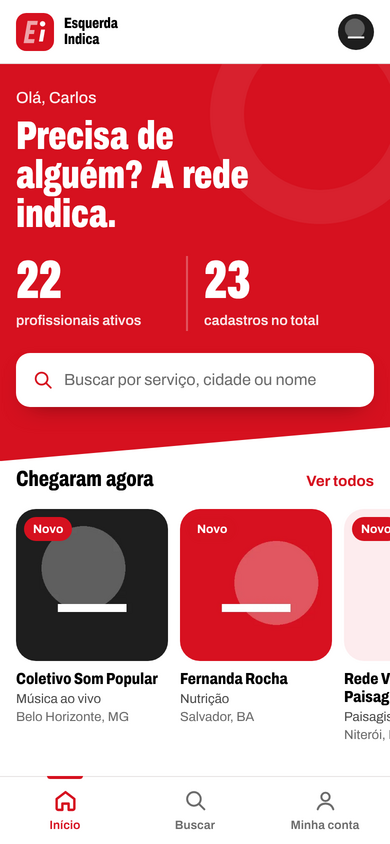
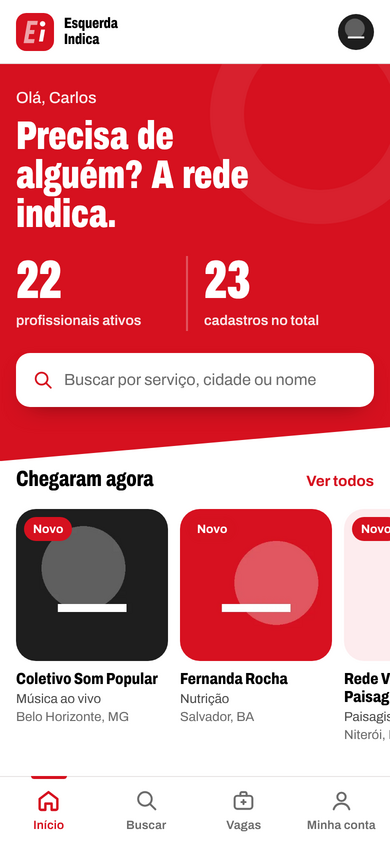
Documentação da versão 0.4.0

diff --git a/bin/dados-exemplo.php b/bin/dados-exemplo.php
@@ -73,4 +73,46 @@ foreach ($outros as $k => [$txt, $cid, $uf]) {
 }
 q("UPDATE usuarios SET status='bloqueado', bloqueio_motivo='Perfil duplicado' WHERE email='teste14@exemplo.com'");
 q("INSERT INTO solicitacoes (usuario_id, motivo) SELECT id, 'Troquei de número de WhatsApp e preciso atualizar meu Instagram, que mudou de nome.' FROM usuarios WHERE email='teste0@exemplo.com'");
+// Empresas com CNPJ e vagas de exemplo
+function cnpj_exemplo(int $base): string
+{
+    $c = str_pad((string)$base, 8, '0', STR_PAD_LEFT) . '0001';
+    foreach ([12, 13] as $n) {
+        $pesos = $n === 12 ? [5, 4, 3, 2, 9, 8, 7, 6, 5, 4, 3, 2] : [6, 5, 4, 3, 2, 9, 8, 7, 6, 5, 4, 3, 2];
+        $soma = 0;
+        for ($i = 0; $i < $n; $i++) $soma += (int)$c[$i] * $pesos[$i];
+        $r = $soma % 11;
+        $c .= $r < 2 ? 0 : 11 - $r;
+    }
+    return $c;
+}
+$empresas = [
+    'Lucas Ferreira Contabilidade' => ['Ferreira Serviços Contábeis Ltda', [
+        ['Assistente contábil', 'clt', 'presencial', 'faixa', 2200, 2800, 'Lançamentos contábeis, conciliação bancária e apoio no fechamento mensal de pequenas empresas e associações. Segunda a sexta, das 8h às 17h.', 'Curso técnico ou superior em andamento em Contabilidade. Conhecimento em planilhas.', 'Vale-transporte, vale-alimentação e plano de saúde.', 'email'],
+        ['Estágio em departamento pessoal', 'estagio', 'hibrido', 'valor', 1100, null, 'Apoio na folha de pagamento, admissões e rescisões. Três dias no escritório e dois em casa, 6 horas por dia.', 'Cursando Administração, Contabilidade ou Recursos Humanos.', 'Bolsa-auxílio e vale-transporte.', 'whatsapp'],
+    ]],
+    'Doce Resistência' => ['Doce Resistência Confeitaria ME', [
+        ['Auxiliar de confeitaria', 'clt', 'presencial', 'valor', 1800, null, 'Preparo de massas, recheios e montagem de bolos e doces para encomendas. Escala de terça a sábado.', 'Experiência com confeitaria é um diferencial. Vontade de aprender é o principal.', 'Alimentação no local e vale-transporte.', 'whatsapp'],
+    ]],
+    'Pedro Antunes' => ['Pedro Antunes Desenvolvimento de Software Ltda', [
+        ['Desenvolvedor PHP pleno', 'pj', 'remoto', 'faixa', 5000, 7500, 'Manutenção e evolução de sistemas web para pequenos negócios e coletivos. Projetos em PHP, MySQL e JavaScript sem framework pesado.', 'Pelo menos 2 anos com PHP e MySQL. Git no dia a dia.', null, 'link'],
+    ]],
+    'Bike Livre Oficina' => ['Bike Livre Oficina Comunitária Ltda', [
+        ['Mecânico de bicicletas', 'temporario', 'presencial', 'combinar', null, null, 'Contrato de 3 meses para a temporada de verão. Revisões, troca de peças e montagem de bicicletas.', 'Experiência com manutenção de bicicletas.', null, 'whatsapp'],
+    ]],
+    'Ateliê Raízes' => ['Ateliê Raízes Moda Sustentável Ltda', []],
+];
+$i = 0;
+foreach ($empresas as $nome => [$razao, $vagas]) {
+    $u = one('SELECT * FROM usuarios WHERE empresa = ?', [$nome]);
+    if (!$u) continue;
+    q('UPDATE usuarios SET cnpj = ?, razao_social = ? WHERE id = ?', [cnpj_exemplo(31415900 + $i++), $razao, $u['id']]);
+    foreach ($vagas as $h => [$tit, $ct, $mod, $st, $min, $max, $desc, $req, $ben, $ctt]) {
+        $valor = $ctt === 'email' ? $u['email'] : ($ctt === 'link' ? 'https://exemplo.com/vagas' : ($u['whatsapp'] ?: $u['telefone']));
+        q("INSERT INTO vagas (usuario_id, titulo, contrato, modalidade, estado_id, cidade_id, quantidade, salario_tipo, salario_min, salario_max, descricao, requisitos, beneficios, contato_tipo, contato_valor, publicada_em, expira_em)
+           VALUES (?,?,?,?,?,?,?,?,?,?,?,?,?,?,?, NOW() - INTERVAL ? HOUR, NOW() + INTERVAL 25 DAY)",
+           [$u['id'], $tit, $ct, $mod, $u['estado_id'], $u['cidade_id'], $h === 0 && $ct === 'clt' ? 2 : 1, $st, $min, $max, $desc, $req, $ben, $ctt, $valor, 5 + $i * 7 + $h]);
+    }
+}
+
 echo "Perfis de exemplo criados. Senha de todos: senha1234\n";

diff --git a/README.md b/README.md
@@ -7,7 +7,7 @@ O app funciona no navegador, mas foi pensado para o celular: dá para instalar n
 <p>
   <img src="docs/telas/03-inicio.png" width="230" alt="Tela inicial">
   <img src="docs/telas/04-busca.png" width="230" alt="Busca por cidade">
-  <img src="docs/telas/05-perfil.png" width="230" alt="Perfil de um profissional">
+  <img src="docs/telas/10-vagas.png" width="230" alt="Vagas de emprego">
 </p>
 
 ## Por que existe
@@ -25,7 +25,8 @@ O Esquerda Indica organiza isso. Cada pessoa cadastra o próprio trabalho uma ve
 - Área de atendimento: só a cidade, a cidade e vizinhas, o estado inteiro ou o Brasil todo, além de atendimento online.
 - Aceite da política de privacidade (LGPD) registrado com data.
 - Login por e-mail e senha, recuperação por e-mail e troca de senha.
-- Cada pessoa pode editar o perfil duas vezes. Depois disso, pede uma nova alteração à administração explicando o motivo. Salvar sem mudar nada não conta.
+- Edição do perfil uma vez a cada 24 horas. Quem precisa mudar antes pode pedir liberação à administração. A administração também pode trocar para a regra de quantidade fixa de alterações. Salvar sem mudar nada não conta.
+- CNPJ e razão social opcionais, numa área própria que não gasta alterações. O CNPJ é conferido e aceita o novo formato com letras.
 - Exclusão da conta pela própria pessoa, com confirmação por senha.
 
 **Busca (só para membros cadastrados)**
@@ -34,9 +35,22 @@ O Esquerda Indica organiza isso. Cada pessoa cadastra o próprio trabalho uma ve
 - Considera a área de atendimento: quem atende a região aparece numa seção separada, depois de quem é da cidade.
 - Perfil com atalhos para WhatsApp (com mensagem pronta), ligação, Instagram, compartilhar e salvar na agenda do celular.
 
+**Vagas de emprego**
+- Empresas com CNPJ e razão social anunciam até 3 vagas ativas ao mesmo tempo. O app mostra com clareza o que falta preencher e quanto do limite está em uso.
+- Cada vaga tem cargo, contratação, modalidade, local, salário, descrição, requisitos, benefícios e forma de candidatura (WhatsApp, e-mail ou link).
+- A candidatura é direto com a empresa. O app não recebe nem guarda currículos.
+- Vagas ficam no ar por 30 dias e podem ser pausadas, renovadas e encerradas.
+- Aba Vagas com busca por texto, estado, cidade, contratação e modalidade.
+
+<p>
+  <img src="docs/telas/11-vaga.png" width="230" alt="Página de uma vaga">
+  <img src="docs/telas/12-minhas-vagas.png" width="230" alt="Minhas vagas">
+  <img src="docs/telas/14-conta-empresa.png" width="230" alt="O que falta para anunciar vagas">
+</p>
+
 **Tela inicial**
 - Contadores de profissionais ativos e de cadastros no total.
-- Destaque para quem acabou de entrar, serviços mais presentes na rede e profissionais da sua cidade.
+- Destaque para quem acabou de entrar, vagas abertas, serviços mais presentes na rede e profissionais da sua cidade.
 
 **Administração**
 - Painel com os números da rede.
@@ -44,11 +58,14 @@ O Esquerda Indica organiza isso. Cada pessoa cadastra o próprio trabalho uma ve
 - Fila de pedidos de alteração, com aprovação ou recusa e resposta que a pessoa vê na conta dela.
 - Histórico de tudo o que acontece: cada edição mostra o antes e o depois. Contas excluídas continuam no histórico com os dados, a foto e os pedidos feitos.
 - Gestão dos tipos de serviço, incluindo transformar um "Outro" que se repete em tipo oficial e mover os perfis automaticamente.
+- Vagas: liberar, bloquear ou mudar o limite de cada empresa, pausar ou remover anúncios com motivo.
+- Planos com preço e limite de vagas, atribuídos manualmente enquanto a cobrança não está ligada.
+- Configurações gerais: regra de edição do perfil, vagas ligadas ou desligadas, limite padrão e validade das vagas.
 
 <p>
   <img src="docs/telas/07-admin-painel.png" width="230" alt="Painel da administração">
   <img src="docs/telas/08-admin-usuario.png" width="230" alt="Gestão de um usuário">
-  <img src="docs/telas/09-admin-pedidos.png" width="230" alt="Pedidos de alteração">
+  <img src="docs/telas/16-admin-vagas.png" width="230" alt="Vagas na administração">
 </p>
 
 ## Tecnologias
@@ -95,19 +112,32 @@ Para atualizar, `git pull` e o mesmo comando de novo. Banco, configuração e fo
 
 O passo a passo manual, a configuração do Nginx e do Apache e os ajustes mais comuns estão em [docs/instalacao.md](docs/instalacao.md).
 
+## Planos e limites de vagas
+
+O limite de vagas de cada empresa é decidido em um só lugar (`direito_vagas()` em `app/lib/regras.php`), nesta ordem:
+
+1. limite próprio definido pela administração na ficha da conta;
+2. plano ativo da conta (tabela `assinaturas`);
+3. limite padrão do site, nas configurações.
+
+As tabelas `planos`, `assinaturas` e `pagamentos` já existem. Para começar a cobrar, falta integrar um meio de pagamento que crie a assinatura quando o pagamento for confirmado. O resto do app já respeita o plano.
+
 ## Organização do código
 
 ```
 app/
   pages/       uma página por rota (lógica e validação)
   views/       telas em PHP com HTML
-  lib/         banco, autenticação, perfil, fotos, e-mail e funções gerais
+  lib/         banco, autenticação, perfil, regras (edição, CNPJ, vagas, planos),
+               fotos, e-mail, migrações e funções gerais
   config.example.php
 bin/
   instalar.php       cria tabelas, importa dados e o administrador
+  migrar.php         aplica mudanças de banco pendentes
   publicar.sh        publicação e atualização no servidor
   dados-exemplo.php  perfis fictícios para desenvolvimento
 database/      SQL das tabelas, estados, cidades e tipos de serviço
+  migracoes/   mudanças de banco de cada versão, aplicadas em ordem
 docs/          instalação e capturas de tela
 public/        única pasta exposta na web
 storage/       arquivos privados (fotos de contas excluídas)

diff --git a/CHANGELOG.md b/CHANGELOG.md
@@ -76,3 +76,32 @@ Nasceu com o nome de trabalho **Profissionais Progressistas**, para substituir a
 - O script funciona tanto a partir do repositório clonado quanto de um arquivo zip, e preserva banco, configuração e fotos nas atualizações.
 - `bin/dados-exemplo.php` com perfis fictícios para desenvolvimento.
 - Documentação: README, guia de instalação, histórico de mudanças, roadmap e capturas de tela.
+
+## [0.4.0] 29/10/2026: vagas de emprego
+
+### Adicionado
+- **Dados da empresa:** CNPJ e razão social, opcionais no cadastro e numa área própria em Minha conta. O CNPJ é conferido pelos dígitos verificadores, aceita o novo formato com letras da Receita Federal e não pode se repetir entre contas. Aparece no perfil para dar mais confiança.
+- **Vagas de emprego:** empresas com CNPJ e razão social anunciam vagas com cargo, tipo de contratação, modalidade, local, quantidade, salário (a combinar, valor ou faixa), descrição, requisitos, benefícios e forma de candidatura (WhatsApp, e-mail ou link).
+- Cada empresa pode manter até 3 vagas ativas ao mesmo tempo. Vagas pausadas, encerradas ou vencidas não contam.
+- As vagas ficam no ar por 30 dias e podem ser renovadas, pausadas, republicadas ou encerradas em Minhas vagas.
+- Nova aba **Vagas** com busca por texto, estado, cidade, contratação e modalidade. Como na busca de profissionais, só aparecem opções que têm vaga. Vagas remotas aparecem em qualquer local filtrado.
+- Página de cada vaga com botão de candidatura direto para a empresa e compartilhamento.
+- Vagas mais recentes na tela inicial e vagas abertas no perfil da empresa.
+- Cartão em Minha conta que mostra o que falta para liberar as vagas e quanto do limite está em uso.
+- **Administração:**
+  - Na ficha de cada usuário: acesso a vagas automático, sempre liberado ou bloqueado, limite próprio de vagas e plano.
+  - Lista de vagas com filtros, pausa e remoção com motivo, que a empresa vê.
+  - Tela de planos, com nome, preço, período e limite de vagas.
+  - Tela de configurações: regra de edição do perfil, vagas ligadas ou desligadas no site, limite padrão e validade das vagas.
+- **Base para planos pagos:** tabelas de planos, assinaturas e pagamentos. O limite de cada empresa segue esta ordem: ajuste da administração, plano ativo, padrão do site. Hoje existe só o plano Gratuito.
+- **Migrações de banco:** `bin/migrar.php` aplica as mudanças pendentes. O `publicar.sh` roda as migrações sozinho nas atualizações.
+
+### Alterado
+- Nova regra padrão para editar o perfil: **uma alteração a cada 24 horas**, sem limite total. A regra anterior, com quantidade fixa e pedido à administração, continua disponível nas configurações.
+- No modo de 24 horas, quem precisa mudar algo antes do prazo pode pedir liberação. Se aprovado, a edição é liberada na hora.
+- Incluir ou corrigir os dados da empresa, trocar a senha e editar vagas não gastam alterações do perfil.
+- Contas excluídas guardam também os dados da empresa e as vagas no histórico.
+- Política de privacidade atualizada com CNPJ e vagas.
+
+### Corrigido
+- Ao escolher "Outro" no tipo de serviço, o campo de texto podia roubar o foco de quem já estava digitando em outro campo.

diff --git a/ROADMAP.md b/ROADMAP.md
@@ -13,8 +13,12 @@ Itens marcados já estão prontos e aparecem no [CHANGELOG.md](CHANGELOG.md).
 - [x] App instalável no celular (0.1.0)
 - [x] Novo nome e marca: Esquerda Indica (0.2.0)
 - [x] Script de publicação no servidor (0.3.0)
+- [x] Vagas de emprego para empresas com CNPJ, com limite por empresa (0.4.0)
+- [x] Edição do perfil a cada 24 horas, com a regra antiga disponível nas configurações (0.4.0)
+- [x] Base de planos, assinaturas e pagamentos (0.4.0)
+- [x] Migrações de banco versionadas (0.4.0)
 
-## 0.4: deixar a operação segura
+## 0.5: deixar a operação segura
 
 Antes de abrir para o grupo inteiro.
 
@@ -25,7 +29,18 @@ Antes de abrir para o grupo inteiro.
 - [ ] Aviso por e-mail para a administração quando chegar um pedido de alteração ou uma denúncia.
 - [ ] Cópia de segurança diária do banco e das fotos.
 
-## 0.5: indicações de verdade
+## 0.6: planos pagos para vagas
+
+A estrutura já existe desde a 0.4. Falta ligar a cobrança.
+
+- [ ] Integração com um meio de pagamento brasileiro (Mercado Pago ou Asaas), começando pelo PIX.
+- [ ] Tela para a empresa escolher e assinar um plano, com o valor e o limite de vagas de cada um.
+- [ ] Confirmação automática do pagamento e liberação do limite na hora.
+- [ ] Aviso antes do plano vencer e volta automática ao limite padrão quando vencer.
+- [ ] Histórico de pagamentos para a empresa e para a administração.
+- [ ] Vaga em destaque no topo da lista como opção paga.
+
+## 0.7: indicações de verdade
 
 A ideia que dá nome ao projeto: quem contratou alguém da rede pode deixar uma indicação.
 
@@ -34,14 +49,15 @@ A ideia que dá nome ao projeto: quem contratou alguém da rede pode deixar uma 
 - [ ] Moderação das indicações pela administração.
 - [ ] Lista de profissionais salvos, para encontrar de novo rápido.
 
-## 0.6: busca melhor
+## 0.8: busca melhor
 
 - [ ] Mais de um tipo de serviço por perfil (por exemplo, pedreiro e pintor).
-- [ ] Busca por distância, usando a localização dos municípios ("até 50 km de mim").
+- [ ] Busca por distância, usando a localização dos municípios ("até 50 km de mim"), para profissionais e vagas.
+- [ ] Alerta de novas vagas por cidade e tipo de contratação.
 - [ ] Busca que tolera erros de digitação e palavras parecidas.
 - [ ] Sugestões de serviço enquanto a pessoa digita.
 
-## 0.7: comunicação
+## 0.9: comunicação
 
 - [ ] Notificações no celular: pedido aprovado, novos profissionais na sua cidade.
 - [ ] Link de convite pessoal, para saber quem trouxe cada membro.
@@ -60,5 +76,5 @@ Melhorias que não aparecem na tela, mas facilitam manter o projeto.
 
 - [ ] Testes automatizados dos fluxos principais (cadastro, edição, pedidos, exclusão).
 - [ ] Verificação automática a cada envio para o GitHub.
-- [ ] Migrações de banco versionadas, para atualizar a estrutura sem rodar SQL à mão.
 - [ ] Limpeza automática de tokens e tentativas de login antigos.
+- [ ] Consulta automática do CNPJ na Receita para conferir a razão social e a situação cadastral.

diff --git a/docs/instalacao.md b/docs/instalacao.md
@@ -91,9 +91,20 @@ server {
 
 Aponte o `DocumentRoot` para `public`. O arquivo `public/.htaccess` já cuida das rotas (precisa do `mod_rewrite` e `AllowOverride All`).
 
+## Atualizando uma instalação manual
+
+Depois de trocar os arquivos pela versão nova, aplique as mudanças de banco:
+
+```bash
+cd /var/www/esquerda-indica
+php bin/migrar.php
+```
+
+O comando só aplica o que ainda não rodou e pode ser repetido sem risco. Faça uma cópia do banco antes de atualizar (`mysqldump esquerda_indica > copia.sql`).
+
 ## Ajustes comuns
 
-* **Quantas alterações cada novo usuário tem:** `edicoes_padrao` em `app/config.php`.
+* **Regra de edição do perfil, limite e validade das vagas:** no painel, em Administração, Configurações.
 * **E-mail de recuperação de senha:** preencha o bloco `mail` em `app/config.php`. Sem SMTP, o app usa a função `mail()` do servidor. Se o e-mail não chegar, o admin pode definir uma nova senha para a pessoa no painel.
 * **Esqueceu a senha do admin:** rode de novo `php bin/instalar.php seu-email@dominio.com`. Ele não apaga nada e só redefine a senha.
 
